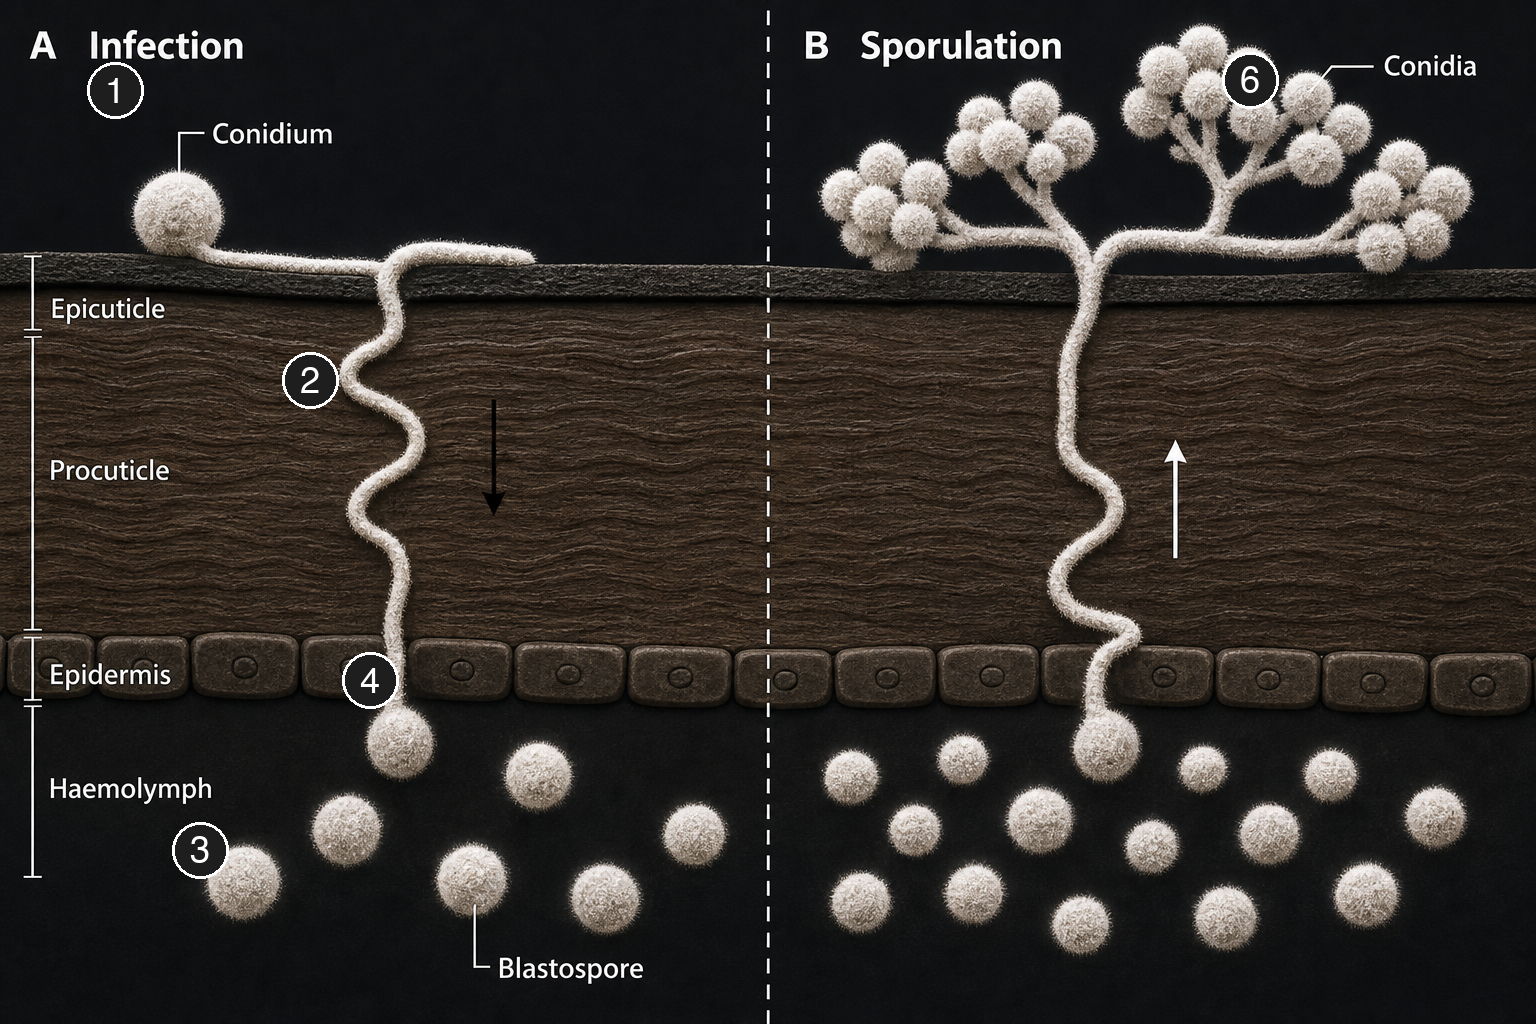
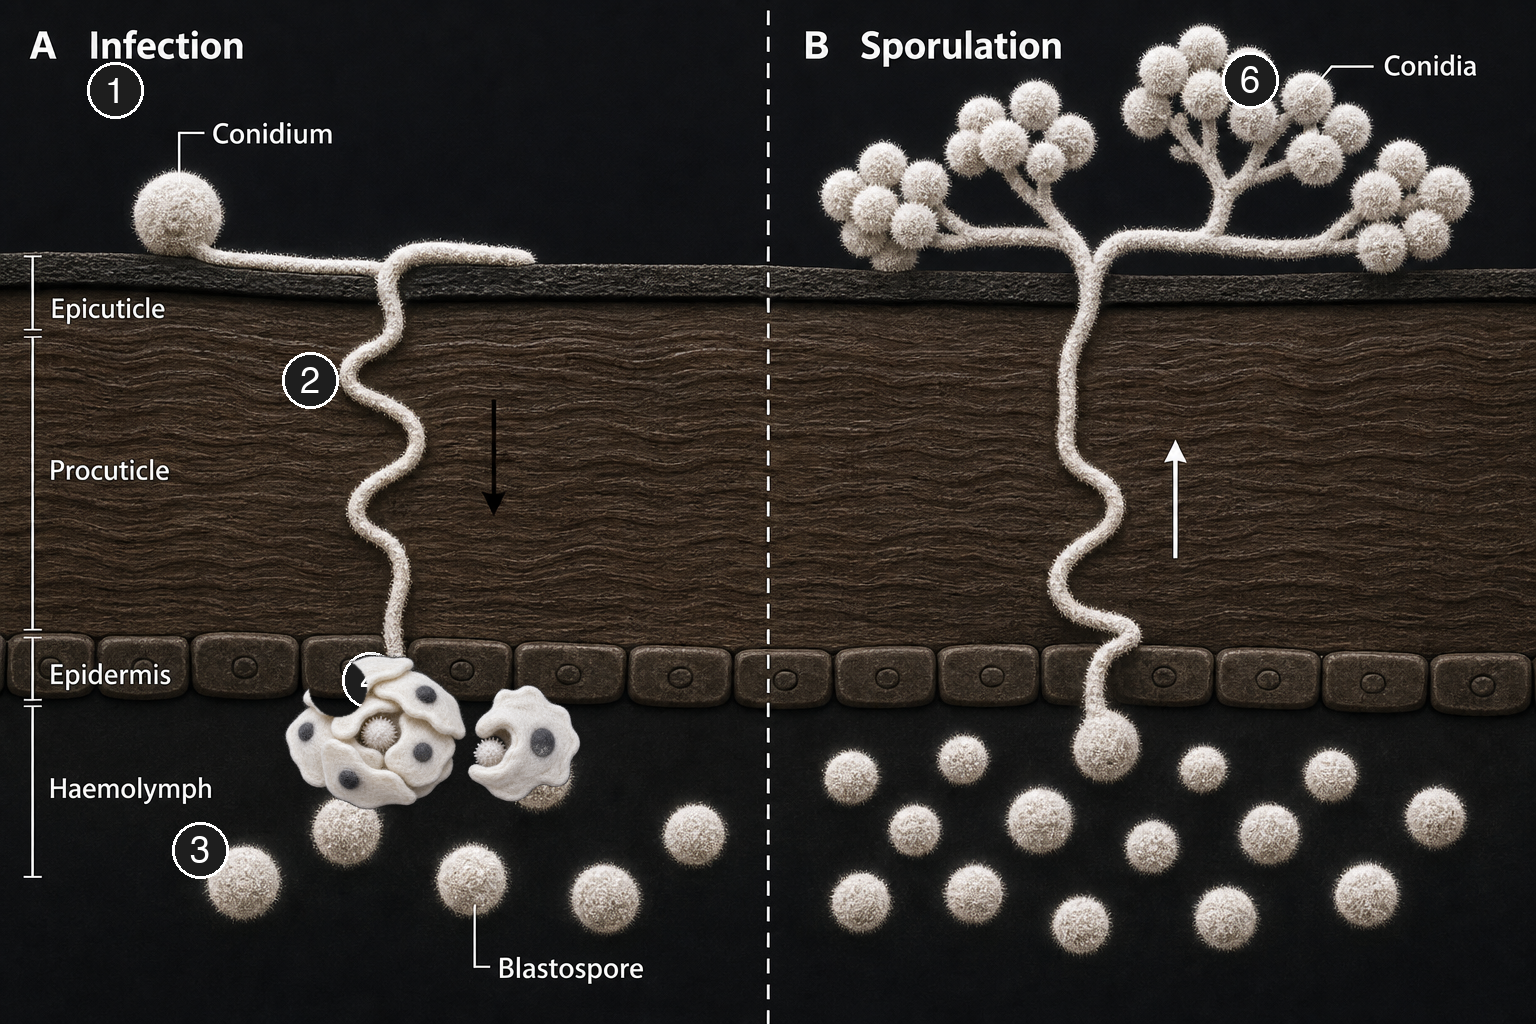
remove duplicates and sticky words

Changed region(s): [[0.1875, 0.625, 0.375, 0.8125]]

diff --git a/README.md b/README.md
@@ -14,13 +14,13 @@ Can a fungus weaken a hornet colony from the inside? This review collects the ev
 ## Summary
 
 1. **EU products and NL use.** Six Bb strains hold EU active-substance approval. Whether any product is authorised in the Netherlands for trap or bait delivery is on the to-do list.
-2. **Kill or weaken *V. velutina*.** One Bb isolate from a wild foundress killed hornets in the lab (half died in about 6 days); field efficacy on *V. velutina* colonies remains untested.
-3. **Selective delivery.** Both passage-contact dispensers and sugar/protein baits load spores onto insects in lab and field trials, but neither has been validated for *V. velutina*.
+2. **Kill or weaken *V. velutina*.** One Bb isolate from a wild foundress killed hornets in the lab (half died in about 6 days); field efficacy of commercial available Bb and on *V. velutina* colonies remains untested.
+3. **Selective delivery.** Both passage-contact dispensers and sugar/protein baits load spores onto insects in lab and field trials. Protein baits has been validated for *V. velutina* and 0.01% fipronil (Barandika2023). No studies with fungi.
 4. **Horizontal transfer to nestmates.** Social wasps transfer spores by contact; species differ in nestmate response to exposed individuals (recognition, aggression, avoidance). The minimum spore load a returning *V. velutina* forager must carry is unknown.
 5. **Fungal growth in the nest.** Bb grows best at 23-28 °C with high humidity; nest temperature and humidity of *V. velutina* have yet to be measured.
 6. **Colony-level impact.** Bb caused colony failure in *Polistes dominula* in the lab; colony weakening or collapse from catch-infect-release in *V. velutina* is an open question.
 
-**Note:** Direct data on *V. velutina* and Bb are scarce. Where hornet data are missing, studies were collected from related wasps, bees, and beetles. These were supplemented with other, less related insects (see [phylogenetic tree](results/attachments/phylogenetic-tree.md)) as `proxies`, and labeled as such. Tags: `ao` on a citekey (e.g. Peng2020ao) = abstract-only here, full PDF requested ([pdf request list](input-phase2/pdfs_request_list.md)); `abstract` = same evidence level when the citekey has no `ao` suffix; `[project inference]` = synthesis across sources, not a single paper quote.
+**Note:** Direct research on *Vespa velutina* and *Beauveria bassiana* (Bb) is scarce. To fill this gap, evidence from related insects—such as other wasps, bees, and ants—has been included. Data from more distantly related species, which are often the focus of commercial Bb products, are labelled as `proxies` (see the [phylogenetic tree](results/attachments/phylogenetic-tree.md)). Workflow can be found in [workflow.md](results/attachments/workflow.md).
 
 ## Terms used in this review
 
@@ -33,8 +33,6 @@ Assay shorthand and jargon are expanded in the [glossary](results/attachments/gl
 | **Bb** | *Beauveria bassiana*. |
 | **ao** | Citekey suffix: evidence from the abstract only; full PDF not on disk yet ([pdf request list](input-phase2/pdfs_request_list.md)). |
 | **Proxy** | Related-species evidence, labelled because hornet data are missing. |
-
-Full list: [glossary](results/attachments/glossary.md). Workflow terms: [CONTEXT.md](CONTEXT.md).
 
 ## Research questions
 
@@ -52,16 +50,16 @@ Exact search strings: [search log](results/methods/search-log.md).
 Each row lists two links when both exist: **first** jumps to the summary section in this README, **second** opens the full literature extract in `results/`.
 
 - [Terms used in this review](#terms-used-in-this-review) · [glossary](results/attachments/glossary.md)
-- [Background](#background) · [background](results/background.md)
-- [1 EU-available products, strains and formulations](#1-eu-available-products-strains-and-formulations) · [eu-products](results/01-eu-products.md)
-- [2 Effect on Vvel, Vespidae, other Hymenoptera, other insects](#2-effect-on-vvel-vespidae-other-hymenoptera-other-insects) · [effects](results/02-effects.md)
-- [3 Mechanics and delivery](#3-mechanics-and-delivery) · [mechanics-delivery](results/03-mechanics-delivery.md)
-- [4 Horizontal spread in the Vvel nest](#4-horizontal-spread-in-the-vvel-nest) · [horizontal-spread](results/04-horizontal-spread.md)
-- [5 Fungal growth on the Vvel](#5-fungal-growth-on-the-vvel) · [fungal-growth](results/05-fungal-growth.md)
-- [6 Effect of fungi on Vespidae nests](#6-effect-of-fungi-on-vespidae-nests) · [nest-effects](results/06-nest-effects.md)
+- [Background](#background) ([background](results/background.md))
+- [1 EU-available products, strains and formulations](#1-eu-available-products-strains-and-formulations) ([eu-products](results/01-eu-products.md))
+- [2 Effect on Vvel, Vespidae, other Hymenoptera, other insects](#2-effect-on-vvel-vespidae-other-hymenoptera-other-insects) ([effects](results/02-effects.md))
+- [3 Mechanics and delivery](#3-mechanics-and-delivery) ([mechanics-delivery](results/03-mechanics-delivery.md))
+- [4 Horizontal spread in the Vvel nest](#4-horizontal-spread-in-the-vvel-nest) ([horizontal-spread](results/04-horizontal-spread.md))
+- [5 Fungal growth on the Vvel](#5-fungal-growth-on-the-vvel) ([fungal-growth](results/05-fungal-growth.md))
+- [6 Effect of fungi on Vespidae nests](#6-effect-of-fungi-on-vespidae-nests) ([nest-effects](results/06-nest-effects.md))
 - [Study selection](#study-selection)
-- [Methods lab journal](results/methods/journal.md) · [search log](results/methods/search-log.md) · [commercial affiliations](results/methods/commercial-affiliations.md)
-- [Attachments: glossary](results/attachments/glossary.md) · [phylogenetic tree](results/attachments/phylogenetic-tree.md)
+- Methods: [lab journal](results/methods/journal.md) [search log](results/methods/search-log.md) · [commercial affiliations](results/methods/commercial-affiliations.md)
+- Attachments: [glossary](results/attachments/glossary.md) · [phylogenetic tree](results/attachments/phylogenetic-tree.md)
 
 ## Background
 
@@ -87,20 +85,20 @@ Six Bb strains hold EU active-substance approval under Regulation (EC) No 1107/2
 
 **Crop spray trials (conventional crop use)**
 
-- BotaniGard ES (strain GHA): 48-71% chilli thrips reduction on roses (Aristizabal2017; abstract).
-- BotaniGard plant dips: 81-86% corrected whitefly mortality on mint (Aristizabal2018; abstract).
+- BotaniGard ES (GHA): 48-71% chilli thrips reduction on roses (Aristizabal2017; abstract).
+- BotaniGard (GHA) plant dips: 81-86% corrected whitefly mortality on mint (Aristizabal2018; abstract).
 
 **Product quality and batch variation**
 
-- balEnce germinated poorly where BotaniGard ES and Mycotrol O killed house flies (Weeks2016).
-- Velifer ES and BotaniGard ES killed tea shot-hole borer faster (6-8 d) than wettable-powder products; cadaver sporulation was highest on Velifer ES (Chavez2023; beetle proxy).
-- Even between batches of the same commercial product (Botanigard), ethanol tolerance, pathogenicity, and spore production differed (Moore2026).
+- balEnce (HF23) germinated poorly where BotaniGard ES (GHA) and Mycotrol O (GHA) killed house flies (Weeks2016).
+- Velifer ES (PPRI 5339) and BotaniGard ES (GHA) killed tea shot-hole borer faster (6-8 d) than wettable-powder products; cadaver sporulation was highest on Velifer ES (Chavez2023; beetle proxy).
+- Even between batches of the same commercial product (Botanigard, GHA), ethanol tolerance, pathogenicity, and spore production differed (Moore2026).
 
-## 2 Effect on Vvel, Vespidae, other Hymenoptera, other insects
+## 2 Effect on Vespa velutina, Vespidae, other Hymenoptera, other insects
 
 ### 2.1 V. velutina
 
-Direct evidence on *V. velutina* and Bb is limited to one isolate from a single research group:
+Direct evidence on *V. velutina* and Bb is limited to one isolate (wild strain) from a single research group:
 
 - Bb strain from a naturally infected foundress in Brittany; growth fastest at 20-28 °C, optimum about 20-22.6 °C (Poidatz2019; funded by Bayer Crop Science).
 - Lab bioassay of that isolate on adult hornets at about 10⁷ spores/mL: half died in 6.25 ± 0.67 days; direct inoculation gave the highest mortality (Poidatz2018). Application above 20 °C recommended.
@@ -126,7 +124,7 @@ Bb kills other social wasps in the lab, but results vary by species and life sta
 
 ### 2.3 Other Hymenoptera
 
-**Framing asymmetry.** 
+**Framing asymmetry** 
 
 - Safety-framed studies tend to report little Bb effect on bees (Zimmermann2007; Omuse2022; Meikle2008). 
 - Pathogenicity-framed studies report high mortality (Portilla2017; Leite2022) and sublethal disruption of nestmate recognition and cognition (Cappa2019; Carlesso2020). 
@@ -136,10 +134,10 @@ Bb kills other social wasps in the lab, but results vary by species and life sta
 
 - Honey bee contact mortality with ICIPE 284: at most 17.4% under hive-simulated conditions (Omuse2022).
 - Stingless bee *Meliponula ferruginea*: at most 11.0% (Omuse2022).
-- Lab contact and ingestion of commercial Bb reduced survival of *Apis mellifera* and *Bombus terrestris*; oral exposure can exceed topical (Leite2022).
+- Direct application and ingestion of commercial Bb reduced survival of *Apis mellifera* and *Bombus terrestris*; oral exposure can exceed topical (Leite2022).
 - Isolate NI8: 98.2% honey bee mortality at the highest lab concentration at 10 d (Portilla2017).
 - Hive-mounted bumblebee dispensers: detectable Bb on 97-99% of *Bombus impatiens* workers, no epizootic, no adverse colony impact (Al-Mazraawi2006; Bb from Emerald BioAgriculture, predecessor to Laverlam/BotaniGard).
-- Meikle2008: GHA material supplied by S.T. Jaronski of Mycotech Corp. (USDA-ARS study).
+- Meikle2008: mite fall increased with Bb05002 + carnauba wax carrier, but colony weight, adult mass, and brood were similar to controls. GHA material supplied by S.T. Jaronski of Mycotech Corp. (USDA-ARS study).
 
 **Hymenopteran proxy**
 
@@ -184,7 +182,7 @@ Two pickup modes sit side by side: contact on a passage surface (1- or 2-way dis
 - After simulated sunlight, spores showed a half-life of about 2 hours (Zimmermann2007).
 - An archaeal photolyase transgene raised spore survival after 4-7 h natural sunlight up to 44-fold and preserved virulence on *Anopheles gambiae* (Fang2012; engineered mosquito proxy).
 
-## 4 Horizontal spread in the Vvel nest
+## 4 Horizontal spread in the Vespa velutina nest
 
 **Catch-infect-release design proxies (fipronil trials)**
 
@@ -203,7 +201,7 @@ Two pickup modes sit side by side: contact on a passage surface (1- or 2-way dis
 - qPCR survey of 38 nests in Portugal: bee- and bumblebee-associated pathogens (DWV, *Nosema ceranae*, BQCV, CBPV, and others) occurred in larvae, pupae, adults and queens at similar prevalence. Authors attribute this mainly to **predation on infected prey** (bees fed to larvae), with additional routes via flowers and direct contact. Nests **bioaccumulate** bee pathogens over the season. The concern is **interspecific transmission and spillback** (hornet harbours replicative bee pathogens). The study does not address Bb or trap-delivered inoculum on returning foragers.
 - The required load (spores per returning forager) for introducing Bb into a *V. velutina* nest remains an open question.
 
-## 5 Fungal growth on the Vvel
+## 5 Fungal growth on the Vespa velutina
 
 **Temperature and moisture (general Bb)**
 

diff --git a/docs/adr/0004-rewrite-anti-hallucination-for-this-review.md b/docs/adr/0004-rewrite-anti-hallucination-for-this-review.md
@@ -1,3 +1,3 @@
 # Rewrite anti-hallucination for this review
 
-`.cursor/rules/anti-hallucination-verification.mdc` must drop foreign-project paths (`knowledge/`, `program/…`, coach, `requirements/`, unrelated validators) and state this review’s source of truth and whitelist: notes (edit only with explicit user allow), phase gate artifacts, `pdfs/`, `input-phase0/` / `input-phase1/` / `input-phase2/`, `temp/`, `CONTEXT.md`, and ADRs. Chosen over a minimal generic rule or deleting the file so verification stays explicit and project-specific.
+`.cursor/rules/anti-hallucination-verification.mdc` must drop foreign-project paths (`knowledge/`, `program/…`, coach, `requirements/`, unrelated validators) and state this review’s source of truth and whitelist: notes (edit only with explicit user allow), phase gate artifacts, `pdfs/`, `input-phase0/` / `input-phase1/` / `input-phase2/`, `temp/`, `results/attachments/workflow.md`, and ADRs. Chosen over a minimal generic rule or deleting the file so verification stays explicit and project-specific.

diff --git a/docs/adr/0012-notes-human-readable-without-cursor.md b/docs/adr/0012-notes-human-readable-without-cursor.md
@@ -1,3 +1,3 @@
 # Notes stay human-readable outside Cursor
 
-Search strategy notes under `notes/beauveria-bassiana/` are Obsidian-first: readable without Cursor. Agent policy (ADRs, `.cursor` rules/skills, `temp/` scratch) must not be cited or embedded in note text. Agents may edit notes only when the user explicitly allows. Chosen so scientific search documentation stays usable in Obsidian alone while agent constraints live in rules/ADRs/`CONTEXT.md`.
+Search strategy notes under `notes/beauveria-bassiana/` are Obsidian-first: readable without Cursor. Agent policy (ADRs, `.cursor` rules/skills, `temp/` scratch) must not be cited or embedded in note text. Agents may edit notes only when the user explicitly allows. Chosen so scientific search documentation stays usable in Obsidian alone while agent constraints live in rules/ADRs/`results/attachments/workflow.md`.

diff --git a/.cursor/skills/consensus/SKILL.md b/.cursor/skills/consensus/SKILL.md
@@ -10,7 +10,7 @@ disable-model-invocation: true
 
 # Consensus coverage check
 
-Gap-check one Consensus.app pass against the systematic review search strategy. Consensus is **not** systematic evidence or PRISMA input. See `docs/adr/0011-consensus-coverage-check.md` and **Consensus coverage check** in `CONTEXT.md`.
+Gap-check one Consensus.app pass against the systematic review search strategy. Consensus is **not** systematic evidence or PRISMA input. See `docs/adr/0011-consensus-coverage-check.md` and **Consensus coverage check** in `results/attachments/workflow.md`.
 
 ## Scope
 

diff --git a/.cursor/docs/wetenschapscommunicatie.md b/.cursor/docs/wetenschapscommunicatie.md
@@ -76,7 +76,7 @@ Help a non-specialist reader understand a difficult fungus topic without drownin
 - Formulas and statistics: only if they earn space; translate what the number *means* for delivery or risk.
 - **Simplify, don't distort**: shorten framing; never invent mortality, transfer, or regulatory facts.
 
-Domain terms and avoid-lists live in `CONTEXT.md`. Match that language when a term is already defined there.
+Domain terms and avoid-lists live in `results/attachments/workflow.md`. Match that language when a term is already defined there.
 
 ---
 

diff --git a/results/attachments/glossary.md b/results/attachments/glossary.md
@@ -80,4 +80,4 @@ Plain-language explanations for terms that appear in this review but sit outside
 
 ---
 
-Workflow glossary for collaborators: [CONTEXT.md](../../CONTEXT.md).
+Workflow glossary for collaborators: [workflow.md](workflow.md).
